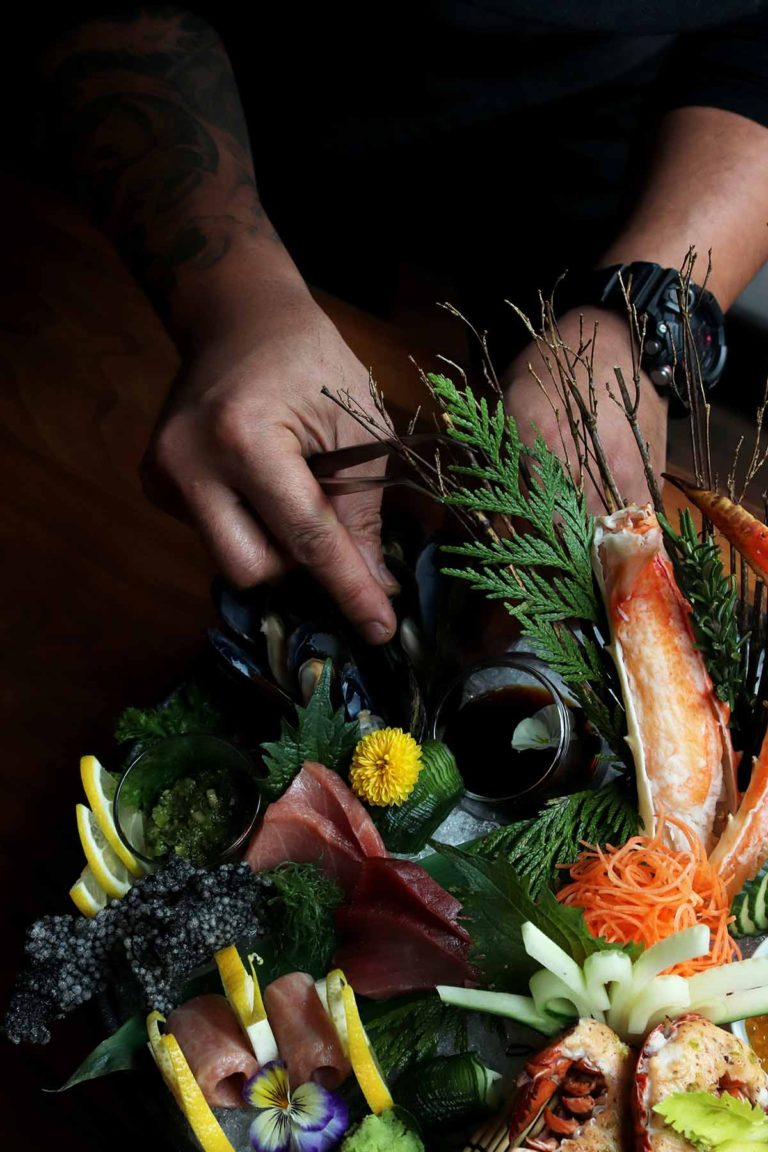
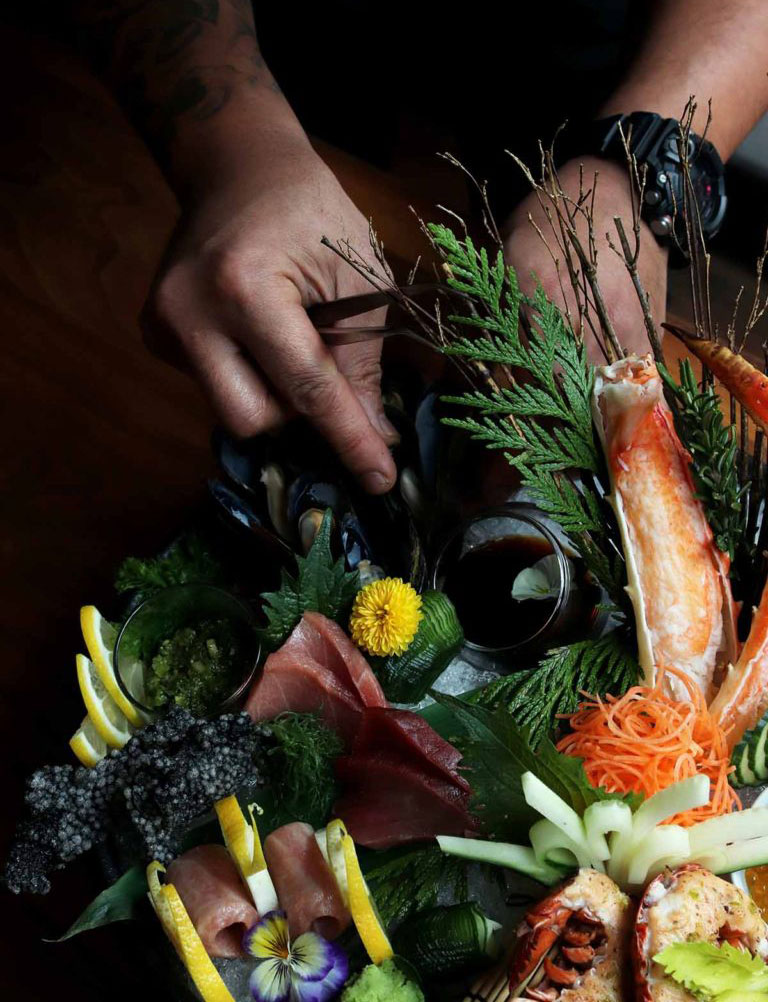
FOUNDED IN 1998 section done

diff --git a/Components/reusedComponents/SectionTitle.tsx b/Components/reusedComponents/SectionTitle.tsx
@@ -1,21 +1,33 @@
-
-interface propsType{
-    topText:string, 
-    bottomText: string;
-    leftLine:boolean;
-    rightLine: boolean;
+interface propsType {
+  topText: string;
+  bottomText: string;
+  leftLine: boolean;
+  rightLine: boolean;
 }
-const SectionTitle = ({topText, bottomText, leftLine, rightLine, }: propsType) => {
-    return (
-        <>
-            <div className="flex gap-4 items-center">
-                <hr className={`w-10 h-[2px] bg-primary ${leftLine? "block":"hidden"}`}/>
-                <h2 className="top_title">{topText}</h2>
-                <hr className={`w-10 h-[2px] bg-primary ${rightLine? "block":"hidden"}`}/>
-            </div>
-            <h3 className="mt-2 text-secondary text-4xl lg:text-7xl font-semibold font-cormorant">{bottomText}</h3>
-        </>
-    );
+const SectionTitle = ({
+  topText,
+  bottomText,
+  leftLine,
+  rightLine,
+}: propsType) => {
+  return (
+    <>
+      <div className="flex gap-4 items-center">
+        <hr
+          className={`w-10 h-[2px] bg-primary ${leftLine ? "block" : "hidden"}`}
+        />
+        <h2 className="top_title">{topText}</h2>
+        <hr
+          className={`w-10 h-[2px] bg-primary ${
+            rightLine ? "block" : "hidden"
+          }`}
+        />
+      </div>
+      <h3 className="mt-2 text-secondary text-4xl lg:text-7xl font-semibold font-cormorant">
+        {bottomText}
+      </h3>
+    </>
+  );
 };
 
 export default SectionTitle;

diff --git a/Components/pages/Home/FoundedIn1998/FoundedIn1998.tsx b/Components/pages/Home/FoundedIn1998/FoundedIn1998.tsx
@@ -1,18 +1,27 @@
 import SectionTitle from "@/Components/reusedComponents/SectionTitle";
 import sideImage from "@/public/assats/home(FOUNDED).jpg";
+import sideImage2 from "@/public/assats/home(FOUNDED)2.jpg";
 import Image from "next/image";
 
 const FoundedIn1998 = () => {
-    return (
-        <div className="container flex flex-col lg:flex-row gap-10 justify-between">
-            <div className="flex-1">
-                <SectionTitle topText="FOUNDED IN 1998" bottomText="A Sophisticated Interpretation Of Traditional Japanese Cuisine" leftLine={false} rightLine={true}/>
-            </div>
-            <div className="flex-1">
-                <Image src={sideImage} className="" alt="" />
-            </div>
+  return (
+    <div className="container flex flex-col lg:flex-row gap-10 justify-between">
+      <div className="flex-1 lg:flex lg:flex-col lg:justify-between">
+        <div>
+          <SectionTitle
+            topText="FOUNDED IN 1998"
+            bottomText="A Sophisticated Interpretation Of Traditional Japanese Cuisine"
+            leftLine={false}
+            rightLine={true}
+          />
         </div>
-    );
+        <Image src={sideImage2} className="" alt="" />
+      </div>
+      <div className="flex-1">
+        <Image src={sideImage} className="" alt="" />
+      </div>
+    </div>
+  );
 };
 
 export default FoundedIn1998;

diff --git a/pages/index.tsx b/pages/index.tsx
@@ -3,9 +3,9 @@ import Header from "@/Components/pages/Home/Header";
 
 export default function Home() {
   return (
-    <div className="space-y-[7rem] absolute top-0 w-full">
+    <div className="space-y-[4rem] lg:space-y-[7rem] absolute top-0 w-full">
       <Header />
-      <FoundedIn1998/>
+      <FoundedIn1998 />
     </div>
   );
 }
